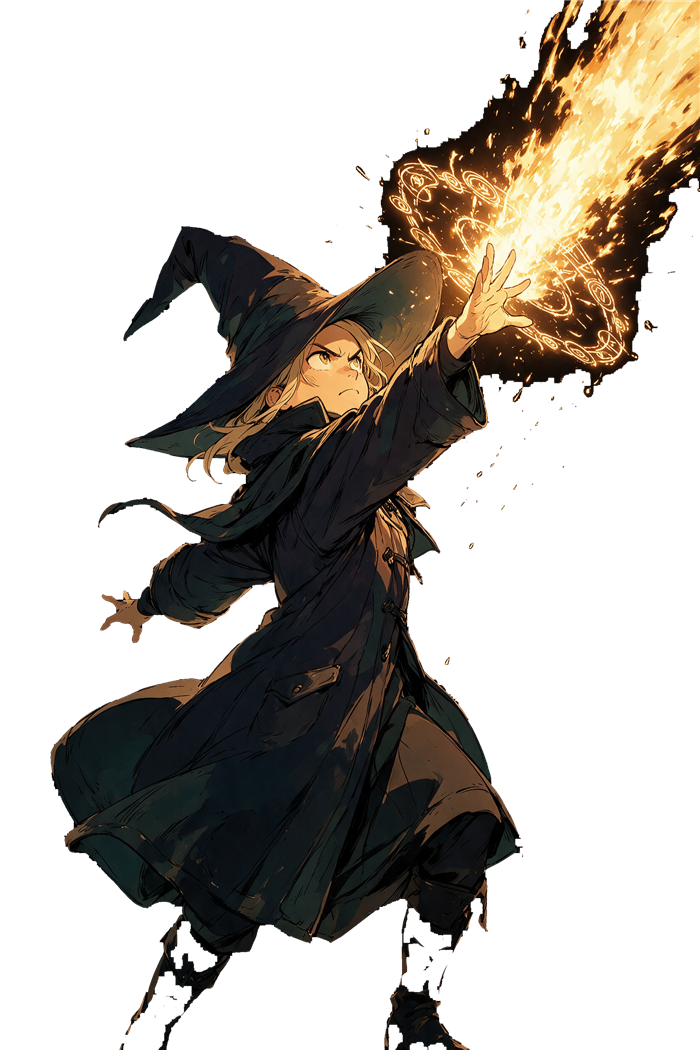
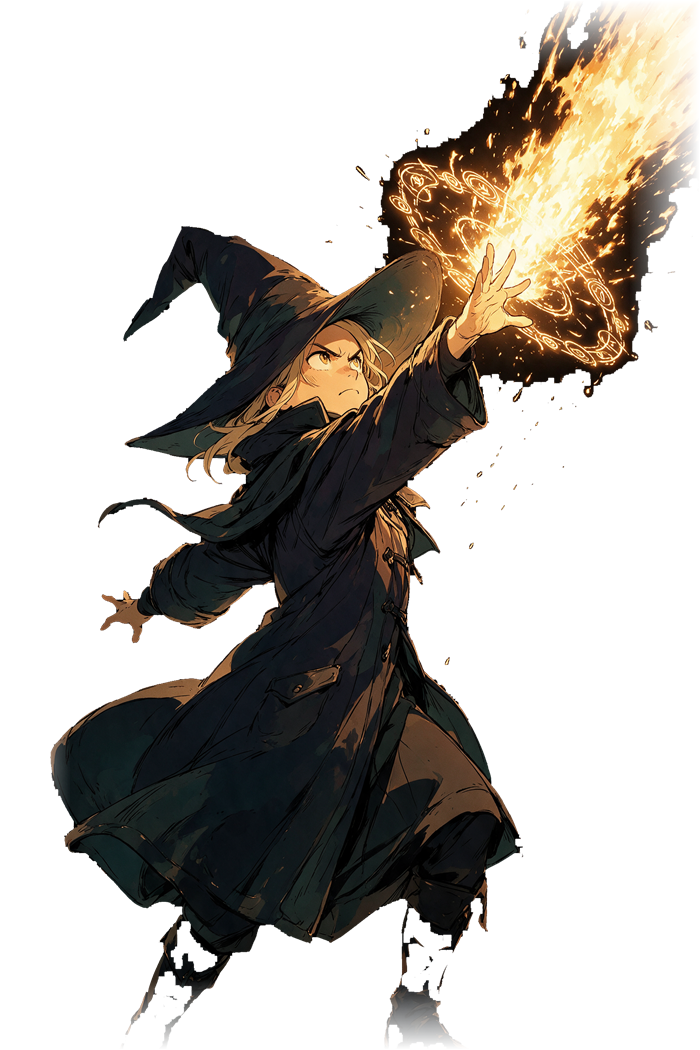
Fade the plate edges -- her spell was being sliced into a visible box
The mage's fire torrent exits the top-right corner of her plate at full
brightness: alpha 179-255 right at the image boundary. So the rectangle
cut straight across a glow, and a hard straight edge through light reads
in the scene as a literal box floating over the art. That box was the
thing that looked wrong, not her position.

keyalpha.ps1 gains -EdgeFade: alpha ramps to nothing over the outer band,
so anything bleeding off the plate falls away instead of being sliced.
The mage is re-keyed at 70px; her edges are now 0 where they were 179-255
and the interior is untouched (face and coat still 255).

Only needed when artwork runs off the edge -- Cindermaw sits well inside
his frame and does not use it.

diff --git a/index.html b/index.html
@@ -20,7 +20,7 @@
 <link rel="manifest" href="manifest.json">
 <link rel="icon" type="image/svg+xml" href="icon.svg">
 <link rel="apple-touch-icon" href="icon-192.png">
-<link rel="stylesheet" href="style.css?v=197">
+<link rel="stylesheet" href="style.css?v=198">
 </head>
 <body>
 <header>
@@ -48,6 +48,6 @@
   </div>
 </main>
 
-<script src="game.js?v=197"></script>
+<script src="game.js?v=198"></script>
 </body>
 </html>

diff --git a/solver.html b/solver.html
@@ -48,8 +48,8 @@
     <p>Loading…</p>
   </div>
 
-  <script src="game.js?v=197"></script>
-  <script src="solver.js?v=197"></script>
-  <script src="measure.js?v=197"></script>
+  <script src="game.js?v=198"></script>
+  <script src="solver.js?v=198"></script>
+  <script src="measure.js?v=198"></script>
 </body>
 </html>
